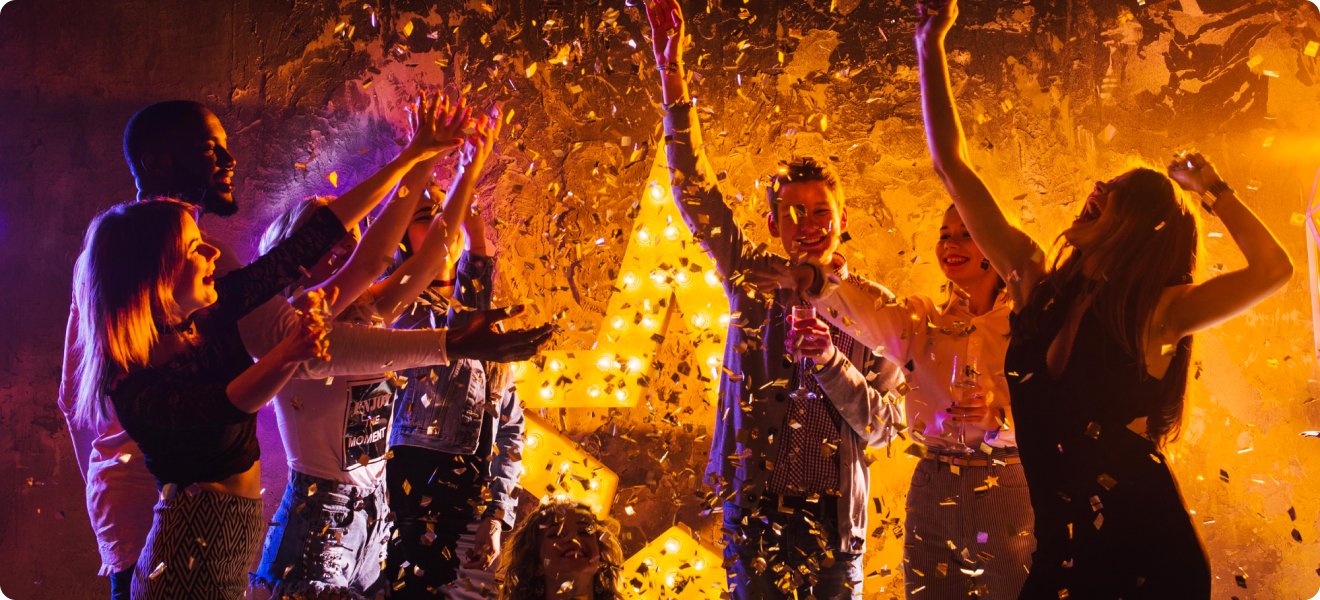
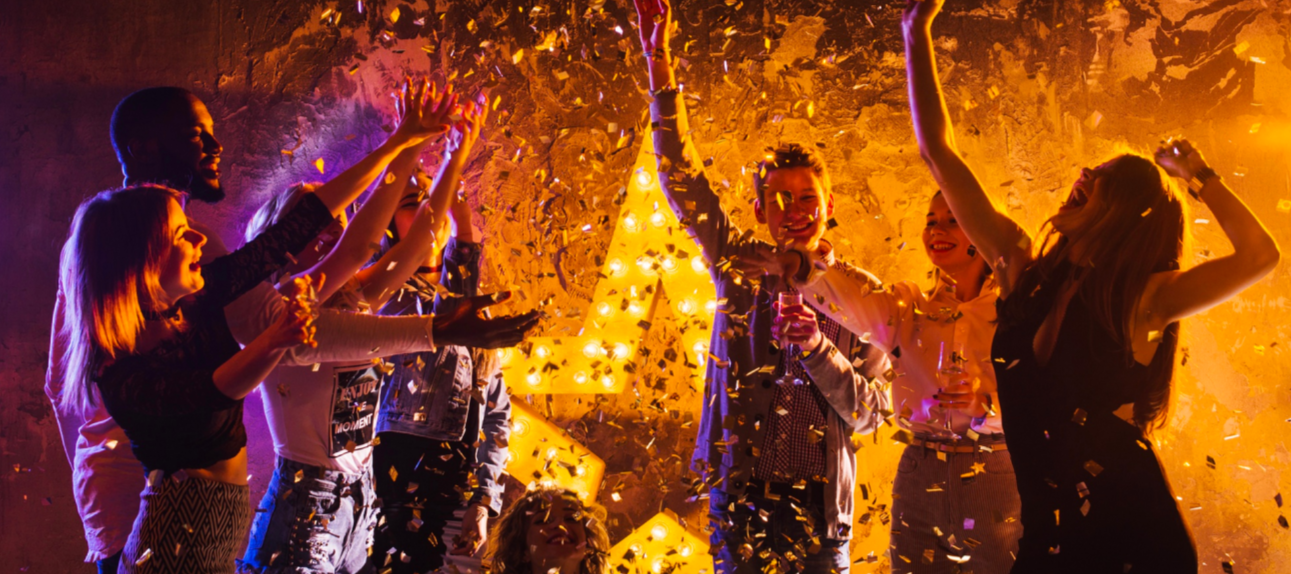
image setting final

diff --git a/style.css/style.css b/style.css/style.css
@@ -87,6 +87,7 @@ header{
     /* background: linear-gradient(90deg, rgba(0, 0, 0, 0.7), rgba(7, 2, 17, 0.00)), url('../resources/vectorrr.png'); */
     background: linear-gradient(rgba(0, 0, 0, 0.7), rgba(0, 0, 0, 0.7)), url('../resources/vectorrr.png');
     background-repeat: no-repeat;
+    background-size: cover;
     display: block;
     justify-content: space-between;
     max-width: 1320px;
@@ -94,6 +95,7 @@ header{
     display: flex;
     margin: 150px auto 0;
     align-items: center;
+    border-radius: 16px;
 }
 
 .welcome-to{
